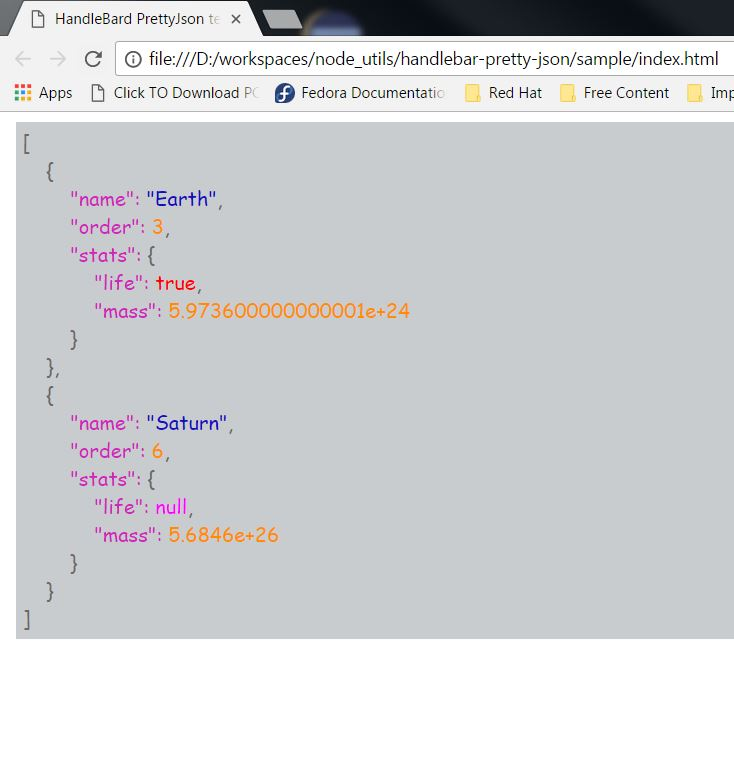
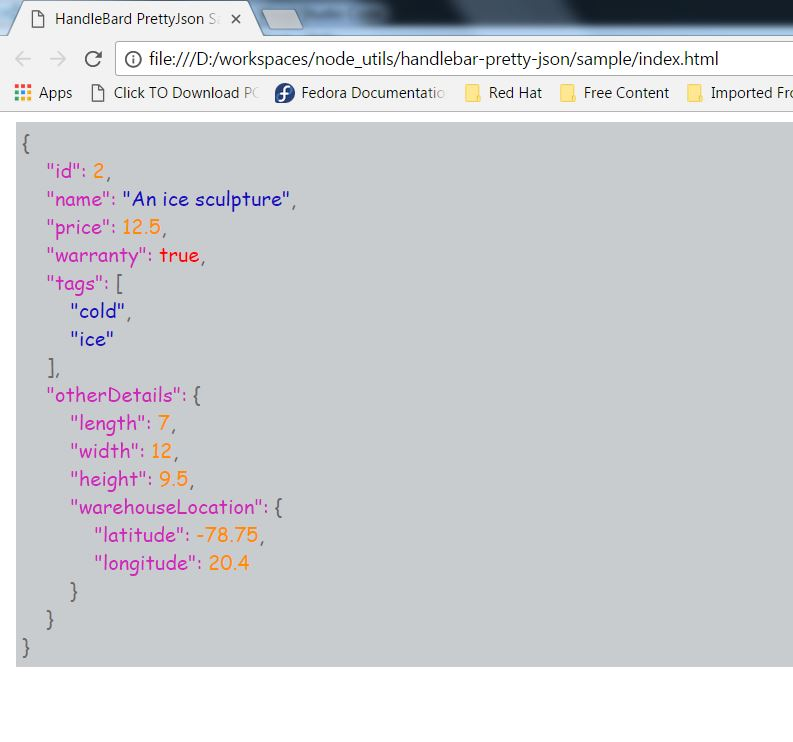
updated package name. changed sample.

diff --git a/sample/index.html b/sample/index.html
@@ -7,24 +7,25 @@
 
 </head>
 
-<pre>[
-    {
-        <span class="key">"name":</span> <span class="string">"Earth"</span>,
-        <span class="key">"order":</span> <span class="number">3</span>,
-        <span class="key">"stats":</span> {
-            <span class="key">"life":</span> <span class="boolean">true</span>,
-            <span class="key">"mass":</span> <span class="number">5.973600000000001e+24</span>
-        }
-    },
-    {
-        <span class="key">"name":</span> <span class="string">"Saturn"</span>,
-        <span class="key">"order":</span> <span class="number">6</span>,
-        <span class="key">"stats":</span> {
-            <span class="key">"life":</span> <span class="null">null</span>,
-            <span class="key">"mass":</span> <span class="number">5.6846e+26</span>
+<pre>{
+    <span class="key">"id":</span> <span class="number">2</span>,
+    <span class="key">"name":</span> <span class="string">"An ice sculpture"</span>,
+    <span class="key">"price":</span> <span class="number">12.5</span>,
+    <span class="key">"warranty":</span> <span class="boolean">true</span>,
+    <span class="key">"tags":</span> [
+        <span class="string">"cold"</span>,
+        <span class="string">"ice"</span>
+    ],
+    <span class="key">"otherDetails":</span> {
+        <span class="key">"length":</span> <span class="number">7</span>,
+        <span class="key">"width":</span> <span class="number">12</span>,
+        <span class="key">"height":</span> <span class="number">9.5</span>,
+        <span class="key">"warehouseLocation":</span> {
+            <span class="key">"latitude":</span> <span class="number">-78.75</span>,
+            <span class="key">"longitude":</span> <span class="number">20.4</span>
         }
     }
-]</pre> <style>
+}</pre> <style>
         pre {
             font-family: cursive;
             background-color: #c8cccf;;

diff --git a/sample/sample.js b/sample/sample.js
@@ -1,11 +1,27 @@
-//var prettyJson = require('../src/index')
+var prettyJson = require('../src/index')
 var handlebars = require('handlebars')
-var prettyJson = require('handlebar-prettyjson')
+//var prettyJson = require('handlebars-prettyjson')
 var fs = require('fs');
 
 //json data to be print on html
-var jsonData = [{ name: 'Earth', order: 3, stats: { life: true, mass: 5.9736 * Math.pow(10, 24) } }, { name: 'Saturn', order: 6, stats: { life: null, mass: 568.46 * Math.pow(10, 24) } }];
-
+var jsonData = `
+{
+        "id": 2,
+        "name": "An ice sculpture",
+        "price": 12.50,
+        "warranty" : true,
+        "tags": ["cold", "ice"],
+        "otherDetails": {
+            "length": 7.0,
+            "width": 12.0,
+            "height": 9.5,
+            "warehouseLocation": {
+            "latitude": -78.75,
+            "longitude": 20.4
+        }
+        }
+    }
+`
 //initialized pretty json
 prettyJson(handlebars)
 

diff --git a/README.md b/README.md
@@ -5,7 +5,7 @@ handlebar helper for prettifying json
 
 ```javascript
 var handlebars = require('handlebars')
-var prettyJson = require('handlebar-prettyjson')
+var prettyJson = require('handlebars-prettyjson')
 
 //initialize pretty json
 prettyJson(handlebars)
